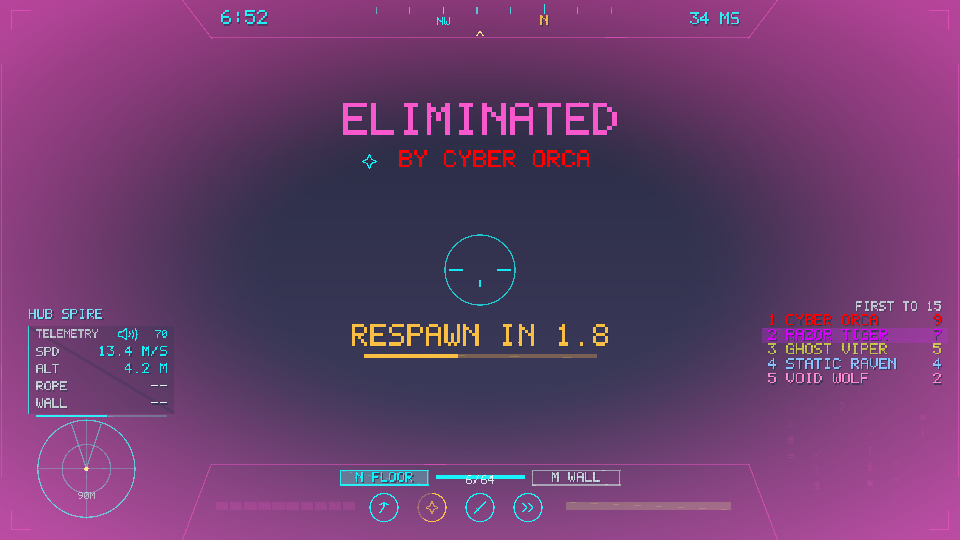
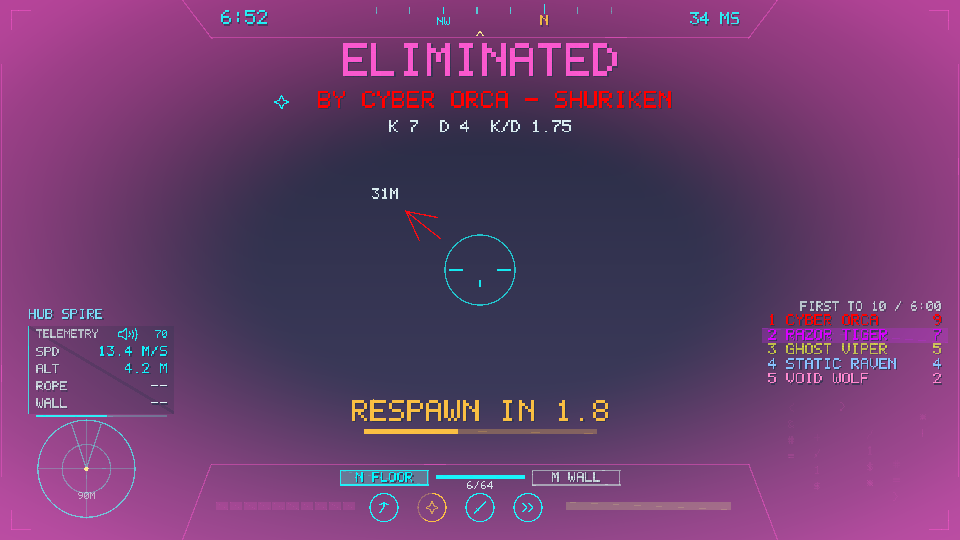
HUD: death screen with killer arrow + weapon + K/D, compact onboarding controls strip (F1 brings it back), 2 s reconnect wait
- death: 'ELIMINATED / BY name - WEAPON' with icon, K/D line, arrow + distance toward where the killer stood, respawn bar (RESPAWN_SECS from the sim)
- controls strip: two compact lines above the chin (WASD / SPACE / SHIFT / C / E / N M / LMB / RMB THROW + LOCK), rows fade after use or 30 s; F1 pins it back (ClientGame::toggle_controls)
- reconnect wait after a kick 10 s -> 2 s (RECONNECT_WAIT_S)
- tests + goldens

Claude-Session: https://claude.ai/code/session_012PjX8xnehkkEPfqRwH5oqm

diff --git a/crates/shinobi-client/src/hud.rs b/crates/shinobi-client/src/hud.rs
@@ -275,6 +275,12 @@ pub fn ffa_colour(id: u16) -> Rgba {
 /// Who eliminated the local player (death overlay).
 #[derive(Clone, Debug, PartialEq)]
 pub struct KilledBy {
+    /// Where the killer was when they got us, relative to the view: radians, 0 ahead, + clockwise; and metres. Set by
+    /// the bridge each frame from the stored kill position (`None` for void deaths / unknown).
+    pub bearing: Option<f32>,
+    pub dist: Option<f32>,
+    /// Our kills and deaths so far.
+    pub kd: Option<(u16, u16)>,
     /// Empty for an environmental death.
     pub name: String,
     pub colour: Option<Rgba>,
@@ -293,8 +299,8 @@ pub struct Winner {
     pub draw: bool,
 }
 
-/// Respawn delay shown as the countdown bar's full length (docs/DEMO.md: 3 s).
-pub const RESPAWN_SECS: f32 = 3.0;
+/// Respawn delay shown as the countdown bar's full length (follows the sim's `RESPAWN_TICKS`).
+pub const RESPAWN_SECS: f32 = shinobi_sim::pvp::RESPAWN_TICKS as f32 / 60.0;
 /// Spawn protection length for the shield indicator (docs/DEMO.md: 1.5 s).
 pub const SPAWN_SHIELD_SECS: f32 = 1.5;
 
@@ -1223,27 +1229,57 @@ fn speaker(out: &mut Vec<Prim>, c: (f32, f32), vol: f32, muted: bool, p: &Palett
     out.push(Prim::Text { pos: (c.0 + 0.032, c.1 + 0.006), text: if muted { "MUTE".into() } else { format!("{:.0}", vol * 100.0) }, size: 0.014, color: col, align: Align::Left });
 }
 
+/// Weapon name for the death screen.
+pub fn weapon_name(k: DamageKind) -> &'static str {
+    match k {
+        DamageKind::Shuriken => "SHURIKEN",
+        DamageKind::Slash => "KATANA",
+        DamageKind::GridBeam => "GRID BEAM",
+    }
+}
+
 /// Death overlay: ELIMINATED, who did it (with their weapon icon), the respawn countdown and its bar. All in the
 /// band above / below the crosshair, which stays empty.
 fn death_overlay(out: &mut Vec<Prim>, s: &HudState, p: &Palette) {
     out.push(Prim::Vignette { start: 0.3, max_a: 0.4, tint: p.magenta.a(1.0) });
-    out.push(Prim::Text { pos: (0.5, 0.25), text: "ELIMINATED".into(), size: 0.06, color: p.magenta.a(0.95), align: Align::Center });
+    out.push(Prim::Text { pos: (0.5, 0.14), text: "ELIMINATED".into(), size: 0.06, color: p.magenta.a(0.95), align: Align::Center });
     if let Some(k) = &s.killed_by {
         let (label, col, glyph) = if k.void {
             ("THE VOID CLAIMED YOU".to_string(), p.magenta, Glyph::Void)
         } else {
-            (format!("BY {}", k.name), k.colour.unwrap_or(p.text), Glyph::of(k.weapon))
+            (format!("BY {} - {}", k.name, weapon_name(k.weapon)), k.colour.unwrap_or(p.text), Glyph::of(k.weapon))
         };
         let est = label.chars().count() as f32 * 0.032 * 0.52; // rough drawn width of the label
-        out.push(Prim::Text { pos: (0.5 + 0.015, 0.31), text: label, size: 0.032, color: col.a(1.0), align: Align::Center });
-        weapon_icon(out, (0.5 + 0.015 - est * 0.5 - 0.022, 0.31 - 0.011), 0.013, glyph, p.for_damage(k.weapon).a(0.95));
+        out.push(Prim::Text { pos: (0.5 + 0.015, 0.20), text: label, size: 0.032, color: col.a(1.0), align: Align::Center });
+        weapon_icon(out, (0.5 + 0.015 - est * 0.5 - 0.022, 0.20 - 0.011), 0.013, glyph, p.for_damage(k.weapon).a(0.95));
+        if let Some((kills, deaths)) = k.kd {
+            let ratio = if deaths == 0 { kills as f32 } else { kills as f32 / deaths as f32 };
+            out.push(Prim::Text { pos: (0.5, 0.245), text: format!("K {kills}  D {deaths}  K/D {ratio:.2}"), size: 0.022, color: p.text.a(0.85), align: Align::Center });
+        }
+        // arrow toward where the killer stood: a chevron on a ring around the (empty) centre, tip outward
+        if let (Some(b), false) = (k.bearing, k.void) {
+            let (sn, cs) = b.sin_cos();
+            let at = |r: f32, off: f32| {
+                let (s2, c2) = (b + off).sin_cos();
+                (0.5 + s2 * r * 0.5625, 0.5 - c2 * r)
+            };
+            let tip = (0.5 + sn * 0.175 * 0.5625, 0.5 - cs * 0.175);
+            for off in [-0.22f32, 0.22] {
+                out.push(Prim::Line { a: tip, b: at(0.125, off), color: col.a(0.95), glow: 0.01 });
+            }
+            out.push(Prim::Line { a: tip, b: (0.5 + sn * 0.095 * 0.5625, 0.5 - cs * 0.095), color: col.a(0.95), glow: 0.01 });
+            if let Some(d) = k.dist {
+                let lp = (0.5 + sn * 0.225 * 0.5625, 0.5 - cs * 0.225);
+                out.push(Prim::Text { pos: (lp.0, lp.1 + 0.008), text: format!("{d:.0}M"), size: 0.02, color: p.text.a(0.85), align: Align::Center });
+            }
+        }
     }
     if let Some(t) = s.respawn_in_s {
         let t = t.max(0.0);
-        out.push(Prim::Text { pos: (0.5, 0.64), text: format!("RESPAWN IN {t:.1}"), size: 0.04, color: p.orange.a(0.95), align: Align::Center });
+        out.push(Prim::Text { pos: (0.5, 0.78), text: format!("RESPAWN IN {t:.1}"), size: 0.04, color: p.orange.a(0.95), align: Align::Center });
         let (w, f) = (0.24, (1.0 - t / RESPAWN_SECS).clamp(0.0, 1.0));
-        out.push(Prim::Rect { r: Rect::new(0.5 - w * 0.5, 0.655, w, 0.008), color: p.orange.a(0.16), glow: 0.0 });
-        out.push(Prim::Rect { r: Rect::new(0.5 - w * 0.5, 0.655, w * f, 0.008), color: p.orange.a(0.95), glow: 0.006 });
+        out.push(Prim::Rect { r: Rect::new(0.5 - w * 0.5, 0.795, w, 0.008), color: p.orange.a(0.16), glow: 0.0 });
+        out.push(Prim::Rect { r: Rect::new(0.5 - w * 0.5, 0.795, w * f, 0.008), color: p.orange.a(0.95), glow: 0.006 });
     }
 }
 
@@ -2459,12 +2495,12 @@ mod tests {
         let dead = HudState {
             dead: true,
             respawn_in_s: Some(1.5),
-            killed_by: Some(KilledBy { name: callsign(4), colour: Some(Rgba::CYAN), weapon: DamageKind::Shuriken, void: false }),
+            killed_by: Some(KilledBy { name: callsign(4), colour: Some(Rgba::CYAN), weapon: DamageKind::Shuriken, void: false, bearing: Some(1.2), dist: Some(23.0), kd: Some((5, 2)) }),
             ..Default::default()
         };
         let t = texts(&dead);
-        assert!(t.contains(&"ELIMINATED".to_string()) && t.contains(&format!("BY {}", callsign(4))) && t.contains(&"RESPAWN IN 1.5".to_string()));
-        let void = HudState { killed_by: Some(KilledBy { name: String::new(), colour: None, weapon: DamageKind::Slash, void: true }), ..dead.clone() };
+        assert!(t.contains(&"ELIMINATED".to_string()) && t.contains(&format!("BY {} - SHURIKEN", callsign(4))) && t.contains(&"K 5  D 2  K/D 2.50".to_string()) && t.contains(&"23M".to_string()) && t.contains(&"RESPAWN IN 1.5".to_string()));
+        let void = HudState { killed_by: Some(KilledBy { name: String::new(), colour: None, weapon: DamageKind::Slash, void: true, bearing: None, dist: None, kd: None }), ..dead.clone() };
         assert!(texts(&void).contains(&"THE VOID CLAIMED YOU".to_string()));
         // the crosshair band stays clear even in the death overlay
         for pr in Hud::build_with(&dead, &p) {

diff --git a/crates/shinobi-client/src/controls_card.rs b/crates/shinobi-client/src/controls_card.rs
@@ -21,14 +21,14 @@ pub enum Use {
 }
 
 const ROWS: [(Use, &str, &str); 8] = [
-    (Use::Move, "W A S D", "MOVE"),
-    (Use::Jump, "SPACE", "JUMP  AGAIN IN AIR"),
+    (Use::Move, "WASD", "MOVE"),
+    (Use::Jump, "SPACE", "JUMP"),
     (Use::Dash, "SHIFT", "DASH"),
     (Use::Slide, "C", "SLIDE"),
-    (Use::Grapple, "E", "GRAPPLE  HOLD C TO SWING"),
-    (Use::Build, "N / M", "BUILD FLOOR / WALL"),
+    (Use::Grapple, "E", "GRAPPLE"),
+    (Use::Build, "N M", "BUILD"),
     (Use::Katana, "LMB", "KATANA"),
-    (Use::Shuriken, "RMB", "SHURIKEN"),
+    (Use::Shuriken, "RMB", "THROW + LOCK"),
 ];
 
 /// One drawn row: key text, action text, opacity 0..1.
@@ -45,6 +45,8 @@ pub struct ControlsCard {
     played: f32,
     /// Seconds since each row's first use (None = not used yet).
     used: [Option<f32>; 8],
+    /// F1: show every row at full strength until toggled off again.
+    pinned: bool,
 }
 
 impl ControlsCard {
@@ -63,12 +65,20 @@ impl ControlsCard {
         }
     }
 
+    /// F1: bring the strip back (all rows, no fading) or put it away again.
+    pub fn toggle_pin(&mut self) {
+        self.pinned = !self.pinned;
+    }
+
     pub fn finished(&self) -> bool {
-        self.played >= LIFETIME + FADE || self.used.iter().all(|u| u.map_or(false, |t| t >= ROW_FADE))
+        !self.pinned && (self.played >= LIFETIME + FADE || self.used.iter().all(|u| u.map_or(false, |t| t >= ROW_FADE)))
     }
 
     /// Rows still worth drawing (alpha > 0), with their opacity.
     pub fn rows(&self) -> Vec<ControlRow> {
+        if self.pinned {
+            return ROWS.iter().map(|r| ControlRow { key: r.1, label: r.2, alpha: 1.0 }).collect();
+        }
         let global = ((LIFETIME + FADE - self.played) / FADE).clamp(0.0, 1.0);
         ROWS.iter()
             .zip(self.used.iter())
@@ -81,19 +91,20 @@ impl ControlsCard {
     }
 }
 
-/// Draw list for the card: slim panel on the left edge, clear of the crosshair and the side rails' content.
+/// Draw list for the strip: a compact two-line block above the chin, centred in the clear band (x 0.26 to 0.74, y 0.75
+/// to 0.80), four `KEY ACTION` entries per line. Rows that were used (faded out) drop away and the rest re-flow.
 pub fn prims(rows: &[ControlRow], p: &Palette) -> Vec<Prim> {
     let mut out = Vec::new();
     if rows.is_empty() {
         return out;
     }
-    let (x, y0, dy) = (0.045, 0.30, 0.034);
-    let a = rows.iter().map(|r| r.alpha).fold(0.0f32, f32::max);
-    out.push(Prim::Text { pos: (x, y0 - 0.026), text: "CONTROLS".into(), size: 0.013, color: p.cyan.a(0.55 * a), align: Align::Left });
+    let (x0, col_w, y0, dy) = (0.26f32, 0.12f32, 0.76f32, 0.03f32);
     for (i, r) in rows.iter().enumerate() {
-        let y = y0 + i as f32 * dy;
+        let (col, line) = ((i % 4) as f32, (i / 4) as f32);
+        let (x, y) = (x0 + col * col_w, y0 + line * dy);
+        let key_w = r.key.chars().count() as f32 * 0.0088 + 0.008;
         out.push(Prim::Text { pos: (x, y), text: r.key.into(), size: 0.016, color: p.gold.a(0.95 * r.alpha), align: Align::Left });
-        out.push(Prim::Text { pos: (x + 0.075, y), text: r.label.into(), size: 0.015, color: p.text.a(0.8 * r.alpha), align: Align::Left });
+        out.push(Prim::Text { pos: (x + key_w, y), text: r.label.into(), size: 0.015, color: p.text.a(0.8 * r.alpha), align: Align::Left });
     }
     out
 }
@@ -150,12 +161,24 @@ mod tests {
     }
 
     #[test]
-    fn the_card_stays_off_the_centre_of_the_screen() {
-        let c = ControlsCard::default();
+    fn the_strip_sits_low_in_the_clear_band_and_f1_brings_it_back() {
+        let mut c = ControlsCard::default();
         for pr in prims(&c.rows(), &Palette::TRON) {
             if let Prim::Text { pos, .. } = pr {
-                assert!(pos.0 < 0.3 && (pos.1 < 0.4 || pos.1 > 0.6 || pos.0 < 0.3), "{pos:?}");
+                assert!(pos.0 >= 0.26 && pos.0 <= 0.74 && pos.1 > 0.7 && pos.1 < 0.84, "{pos:?}");
             }
         }
+        // finish it, then F1 shows everything again at full strength, F1 again hides it
+        for u in [Use::Move, Use::Jump, Use::Dash, Use::Slide, Use::Grapple, Use::Build, Use::Katana, Use::Shuriken] {
+            c.mark(u);
+        }
+        for _ in 0..60 {
+            c.tick(1.0 / 60.0);
+        }
+        assert!(c.finished() && c.rows().is_empty());
+        c.toggle_pin();
+        assert!(!c.finished() && c.rows().len() == 8 && c.rows().iter().all(|r| r.alpha == 1.0));
+        c.toggle_pin();
+        assert!(c.rows().is_empty());
     }
 }

diff --git a/crates/shinobi-client/src/hud_bridge.rs b/crates/shinobi-client/src/hud_bridge.rs
@@ -92,6 +92,8 @@ pub struct HudBridge {
     grapple_flash: f32,
     /// The last kill that eliminated us (shown while dead).
     last_death: Option<KilledBy>,
+    /// World position of the killer when the kill landed.
+    last_death_pos: Option<[f32; 3]>,
     /// Seconds we have been invulnerable (spawn protection) since last becoming so.
     invuln_t: f32,
     /// Master volume and mute from the audio settings, for the speaker glyph (the shell sets it each frame).
@@ -155,7 +157,9 @@ impl HudBridge {
                 if let shinobi_sim::events::NetEvent::Kill { victim, .. } = e {
                     if *victim == local_id {
                         let tint = k.killer_team.map(|t| crate::hud::Palette::TRON.team(t)).or(k.killer_colour);
-                        self.last_death = Some(KilledBy { name: k.killer.clone(), colour: tint, weapon: k.weapon, void: k.void });
+                        self.last_death = Some(KilledBy { name: k.killer.clone(), colour: tint, weapon: k.weapon, void: k.void, bearing: None, dist: None, kd: None });
+                        // where the killer stood (if we can see them this frame)
+                        self.last_death_pos = if k.void { None } else if let shinobi_sim::events::NetEvent::Kill { killer, .. } = e { view.remotes.iter().find(|(id, _)| id == killer).map(|(_, s)| s.pos) } else { None };
                     }
                 }
                 self.killfeed.push(k);
@@ -299,6 +303,13 @@ impl HudBridge {
         hs.boot = self.boot;
         // death overlay, spawn shield, match result, audio glyph
         hs.killed_by = if hs.dead { self.last_death.clone() } else { None };
+        if let Some(k) = hs.killed_by.as_mut() {
+            if let Some(pos) = self.last_death_pos {
+                k.bearing = Some(bearing_to(me, view.aim.yaw, pos));
+                k.dist = Some(((pos[0] - me[0]).powi(2) + (pos[2] - me[2]).powi(2)).sqrt());
+            }
+            k.kd = hs.scoreboard.iter().find(|r| r.local).map(|r| (r.kills, r.deaths));
+        }
         if hs.invulnerable && !hs.dead {
             self.invuln_t += dt;
             hs.shield = Some((1.0 - self.invuln_t / SPAWN_SHIELD_SECS).clamp(0.0, 1.0));
@@ -695,5 +706,20 @@ mod tests {
         let mut b = HudBridge::default();
         let s = b.update(0.016, &RenderView::default(), &net(), false);
         assert_eq!((s.kill_limit, s.time_limit_secs), (Some(ffa_kill_limit()), None));
+    }
+
+    #[test]
+    fn the_killers_position_is_remembered_for_the_death_arrow() {
+        use shinobi_sim::events::NetEvent;
+        let mut b = HudBridge::default();
+        let mut v = RenderView::default();
+        v.remotes = vec![(7, crate::interp::Sample { pos: [10.0, 0.5, -20.0], yaw: 0.0, extrapolated: false })];
+        v.events = vec![NetEvent::Kill { killer: 7, victim: 0, kind: shinobi_proto::gameplay::KIND_SHURIKEN, tick: 1 }];
+        b.update(0.016, &v, &net(), false);
+        assert_eq!(b.last_death_pos, Some([10.0, 0.5, -20.0]));
+        // a void death has no killer to point at
+        v.events = vec![NetEvent::Kill { killer: 0, victim: 0, kind: 200, tick: 2 }];
+        b.update(0.016, &v, &net(), false);
+        assert_eq!(b.last_death_pos, None);
     }
 }

diff --git a/crates/shinobi-client/src/screens.rs b/crates/shinobi-client/src/screens.rs
@@ -76,10 +76,13 @@ pub fn kick_hint(reason: &str) -> Option<&'static str> {
     })
 }
 
+/// Seconds before Enter reconnects after a kick. The server bans an ADDRESS and a reconnect uses a new socket, so a
+/// long wait protects nothing; this only stops a held key from hammering the server.
+pub const RECONNECT_WAIT_S: f32 = 2.0;
+
 pub fn kick_cooldown_s(r: KickReason) -> f32 {
     match r {
-        KickReason::Cheat | KickReason::Flood => 10.0,
-        KickReason::ServerFull => 3.0,
+        KickReason::Cheat | KickReason::Flood | KickReason::ServerFull => RECONNECT_WAIT_S,
         KickReason::Timeout | KickReason::Other | KickReason::BadVersion => 0.0,
     }
 }
@@ -484,13 +487,13 @@ mod tests {
     fn kick_cooldown_counts_down_then_offers_reconnect() {
         let p = Palette::TRON;
         let k = |since| Screen::kicked(KickReason::Cheat, since);
-        assert_eq!(k(0.0), Screen::Kicked { reason: "CHEAT DETECTION".into(), retry_in_s: 10.0 });
-        assert!(texts(&draw(&k(2.5), &p, 0.0)).contains(&"RETRY IN 8S".to_string()), "ceil of 7.5");
-        assert!(texts(&draw(&k(10.0), &p, 0.0)).contains(&"PRESS ENTER TO RECONNECT".to_string()));
+        assert_eq!(k(0.0), Screen::Kicked { reason: "CHEAT DETECTION".into(), retry_in_s: RECONNECT_WAIT_S });
+        assert!(texts(&draw(&k(0.5), &p, 0.0)).contains(&"RETRY IN 2S".to_string()), "ceil of 1.5");
+        assert!(texts(&draw(&k(RECONNECT_WAIT_S), &p, 0.0)).contains(&"PRESS ENTER TO RECONNECT".to_string()));
         assert_eq!(k(99.0), Screen::Kicked { reason: "CHEAT DETECTION".into(), retry_in_s: 0.0 });
         // a timeout kick has no ban: reconnect immediately
         assert!(matches!(Screen::kicked(KickReason::Timeout, 0.0), Screen::Kicked { retry_in_s, .. } if retry_in_s == 0.0));
-        assert_eq!(kick_cooldown_s(KickReason::ServerFull), 3.0);
+        assert_eq!(kick_cooldown_s(KickReason::ServerFull), RECONNECT_WAIT_S);
     }
 
     #[test]

diff --git a/crates/shinobi-client/src/overlay.rs b/crates/shinobi-client/src/overlay.rs
@@ -10,7 +10,7 @@ pub fn window_title(locked: bool) -> &'static str {
     if locked { "Golden Shinobi" } else { "Golden Shinobi - click the window to play" }
 }
 
-const CONTROLS: [(&str, &str); 13] = [
+const CONTROLS: [(&str, &str); 14] = [
     ("W A S D", "MOVE"),
     ("MOUSE", "AIM"),
     ("SPACE", "JUMP / DOUBLE JUMP"),
@@ -21,6 +21,7 @@ const CONTROLS: [(&str, &str); 13] = [
     ("N / M", "BUILD FLOOR OR RAMP / WALL"),
     ("TAB", "SCOREBOARD"),
     ("BACKQUOTE", "CONSOLE"),
+    ("F1 / F3", "CONTROLS STRIP / PERF"),
     ("LEFT CLICK", "KATANA SLICE"),
     ("RIGHT CLICK", "THROW SHURIKEN"),
     ("ESC", "RELEASE MOUSE"),
@@ -39,7 +40,7 @@ pub fn click_to_play(p: &Palette, time: f32) -> Vec<Prim> {
     let pulse = 0.65 + 0.35 * (time * 3.0).sin().abs();
     out.push(Prim::Text { pos: (0.5, 0.27), text: "CLICK TO PLAY".into(), size: 0.05, color: p.orange.a(pulse), align: Align::Center });
     for (i, (key, what)) in CONTROLS.iter().enumerate() {
-        let y = 0.36 + i as f32 * 0.04;
+        let y = 0.36 + i as f32 * 0.037;
         out.push(Prim::Text { pos: (0.30, y), text: (*key).into(), size: 0.026, color: p.cyan, align: Align::Left });
         out.push(Prim::Text { pos: (0.70, y), text: (*what).into(), size: 0.026, color: p.text, align: Align::Right });
     }

diff --git a/crates/shinobi-client/src/hud_scenarios.rs b/crates/shinobi-client/src/hud_scenarios.rs
@@ -50,7 +50,7 @@ fn scenarios_raw() -> Vec<(&'static str, Vec<Prim>)> {
     let p = Palette::TRON;
     let mut out = Vec::new();
 
-    let spawn = HudState { boot: Some(1.1), hp: 1.0, ..base() };
+    let spawn = HudState { boot: Some(1.1), hp: 1.0, controls: crate::controls_card::ControlsCard::default().rows(), ..base() };
     out.push(("spawn", Hud::build_with(&spawn, &p)));
 
     let fight = HudState {
@@ -78,7 +78,7 @@ fn scenarios_raw() -> Vec<(&'static str, Vec<Prim>)> {
         dead: true,
         hp: 0.0,
         respawn_in_s: Some(1.8),
-        killed_by: Some(KilledBy { name: callsign(1), colour: Some(player_rgba(1)), weapon: DamageKind::Shuriken, void: false }),
+        killed_by: Some(KilledBy { name: callsign(1), colour: Some(player_rgba(1)), weapon: DamageKind::Shuriken, void: false, bearing: Some(-0.9), dist: Some(31.0), kd: Some((7, 4)) }),
         audio: Some((0.7, false)),
         ..base()
     };

diff --git a/crates/shinobi-game/src/hud_view.rs b/crates/shinobi-game/src/hud_view.rs
@@ -348,10 +348,15 @@ fn mode_ui(
     mut typed: MessageReader<KeyboardInput>,
     mut console: ResMut<ConsoleRes>,
     mut settings: ResMut<SettingsRes>,
+    keys: Res<ButtonInput<KeyCode>>,
     ctl: Res<HudCtl>,
     mut net: ResMut<Net>,
     mut audio: Option<ResMut<crate::audio::AudioSettings>>,
 ) {
+    // F1: bring the first-30-seconds controls strip back (or put it away)
+    if keys.just_pressed(KeyCode::F1) {
+        net.0.game.toggle_controls();
+    }
     let Some(out) = mode.out else {
         typed.clear();
         return;

diff --git a/crates/shinobi-client/src/conn_watch.rs b/crates/shinobi-client/src/conn_watch.rs
@@ -71,7 +71,7 @@ mod tests {
         match w.update(1.0, &net, false, "x") {
             Screen::Kicked { reason, retry_in_s } => {
                 assert_eq!(reason, "CHEAT DETECTION");
-                assert!((retry_in_s - 9.0).abs() < 1e-4, "{retry_in_s}");
+                assert!((retry_in_s - (crate::screens::RECONNECT_WAIT_S - 1.0)).abs() < 1e-4, "{retry_in_s}");
             }
             other => panic!("{other:?}"),
         }

diff --git a/crates/shinobi-client/src/client_game.rs b/crates/shinobi-client/src/client_game.rs
@@ -562,6 +562,11 @@ impl ClientGame {
 
     // ---- input (any rate) ----
 
+    /// F1: show / hide the controls strip (all rows, full strength) regardless of the 30 s fade.
+    pub fn toggle_controls(&mut self) {
+        self.controls.toggle_pin();
+    }
+
     pub fn button_event(&mut self, e: ButtonEvent) {
         if e.down {
             match e.action {
